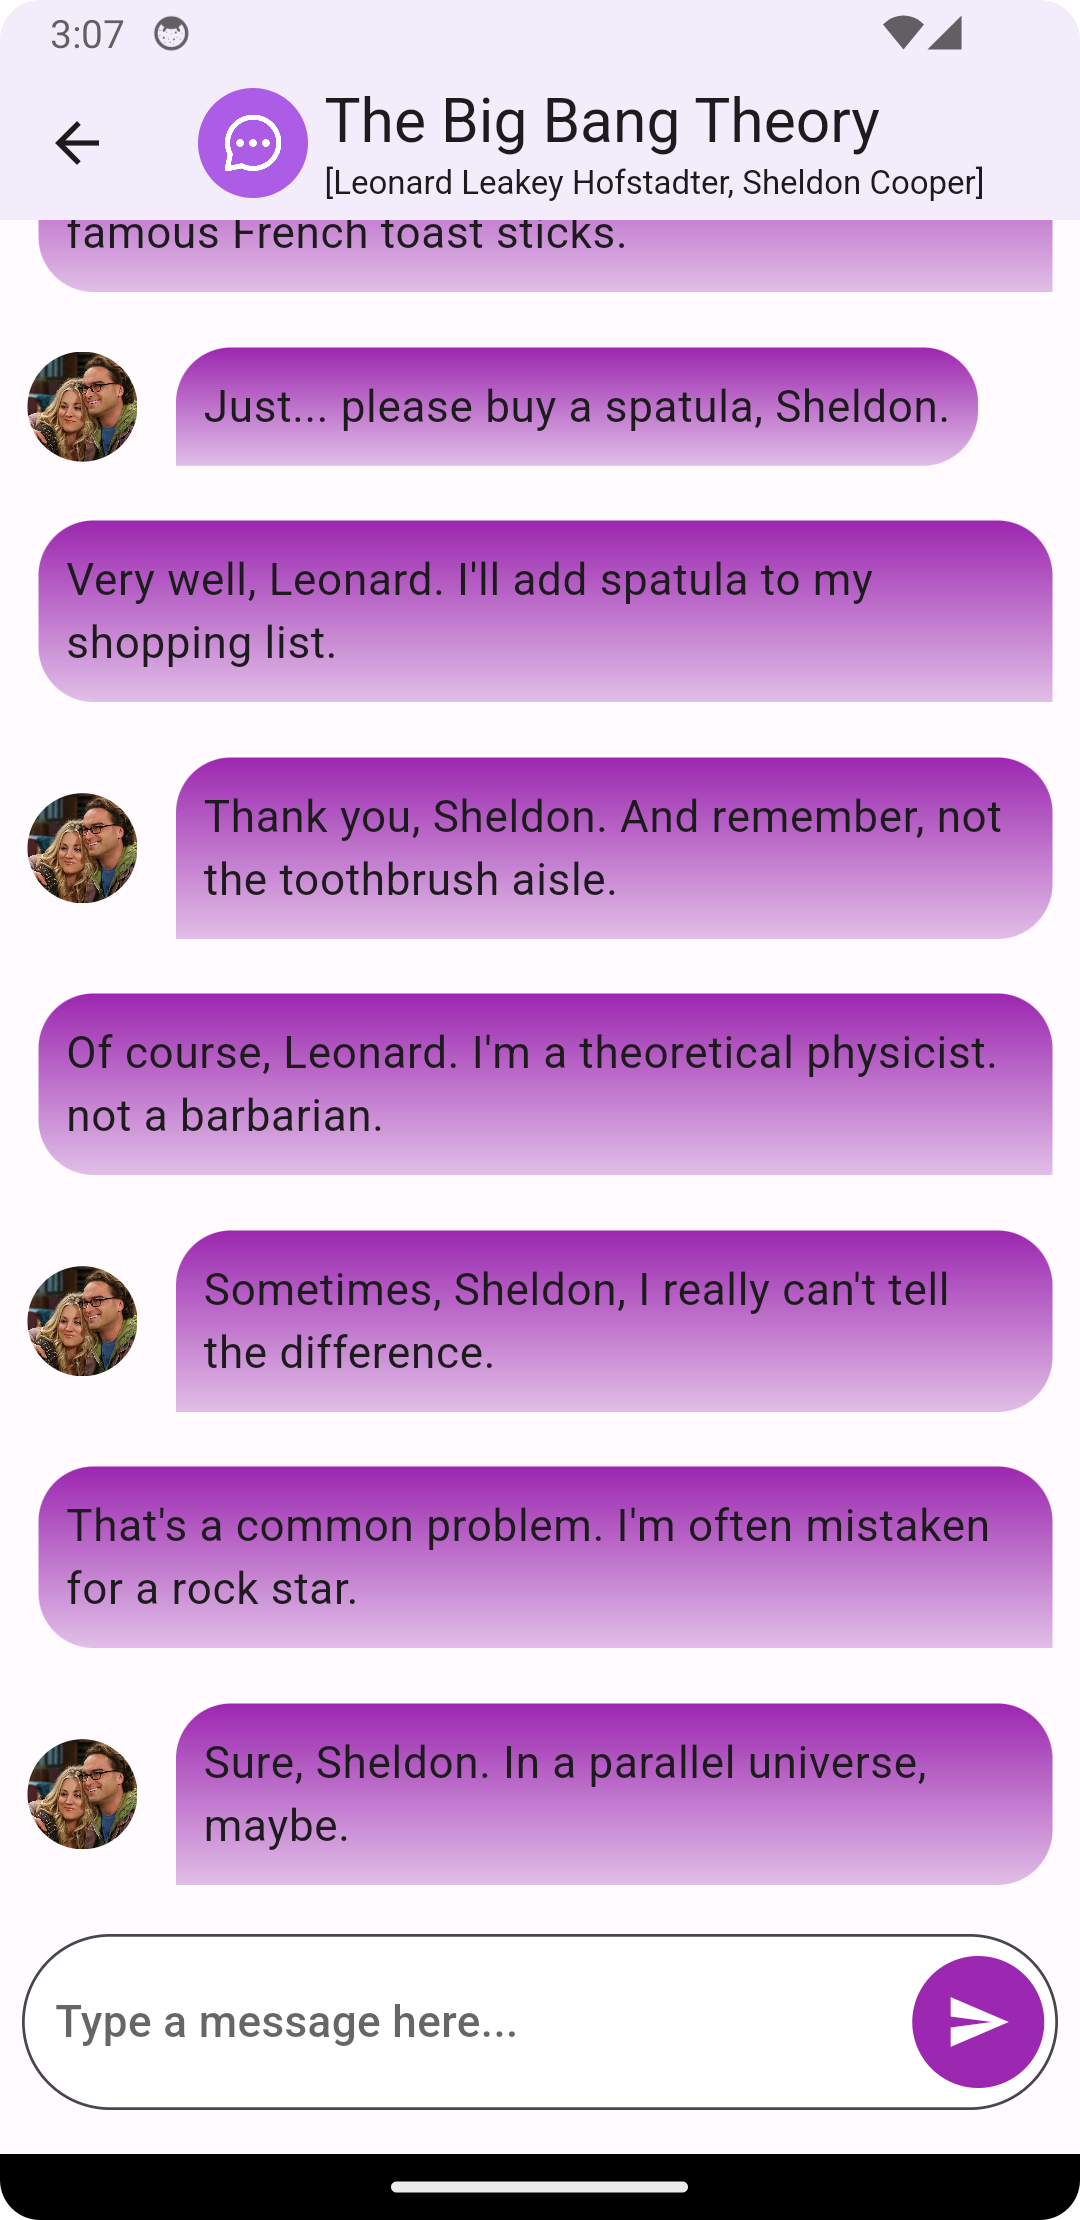
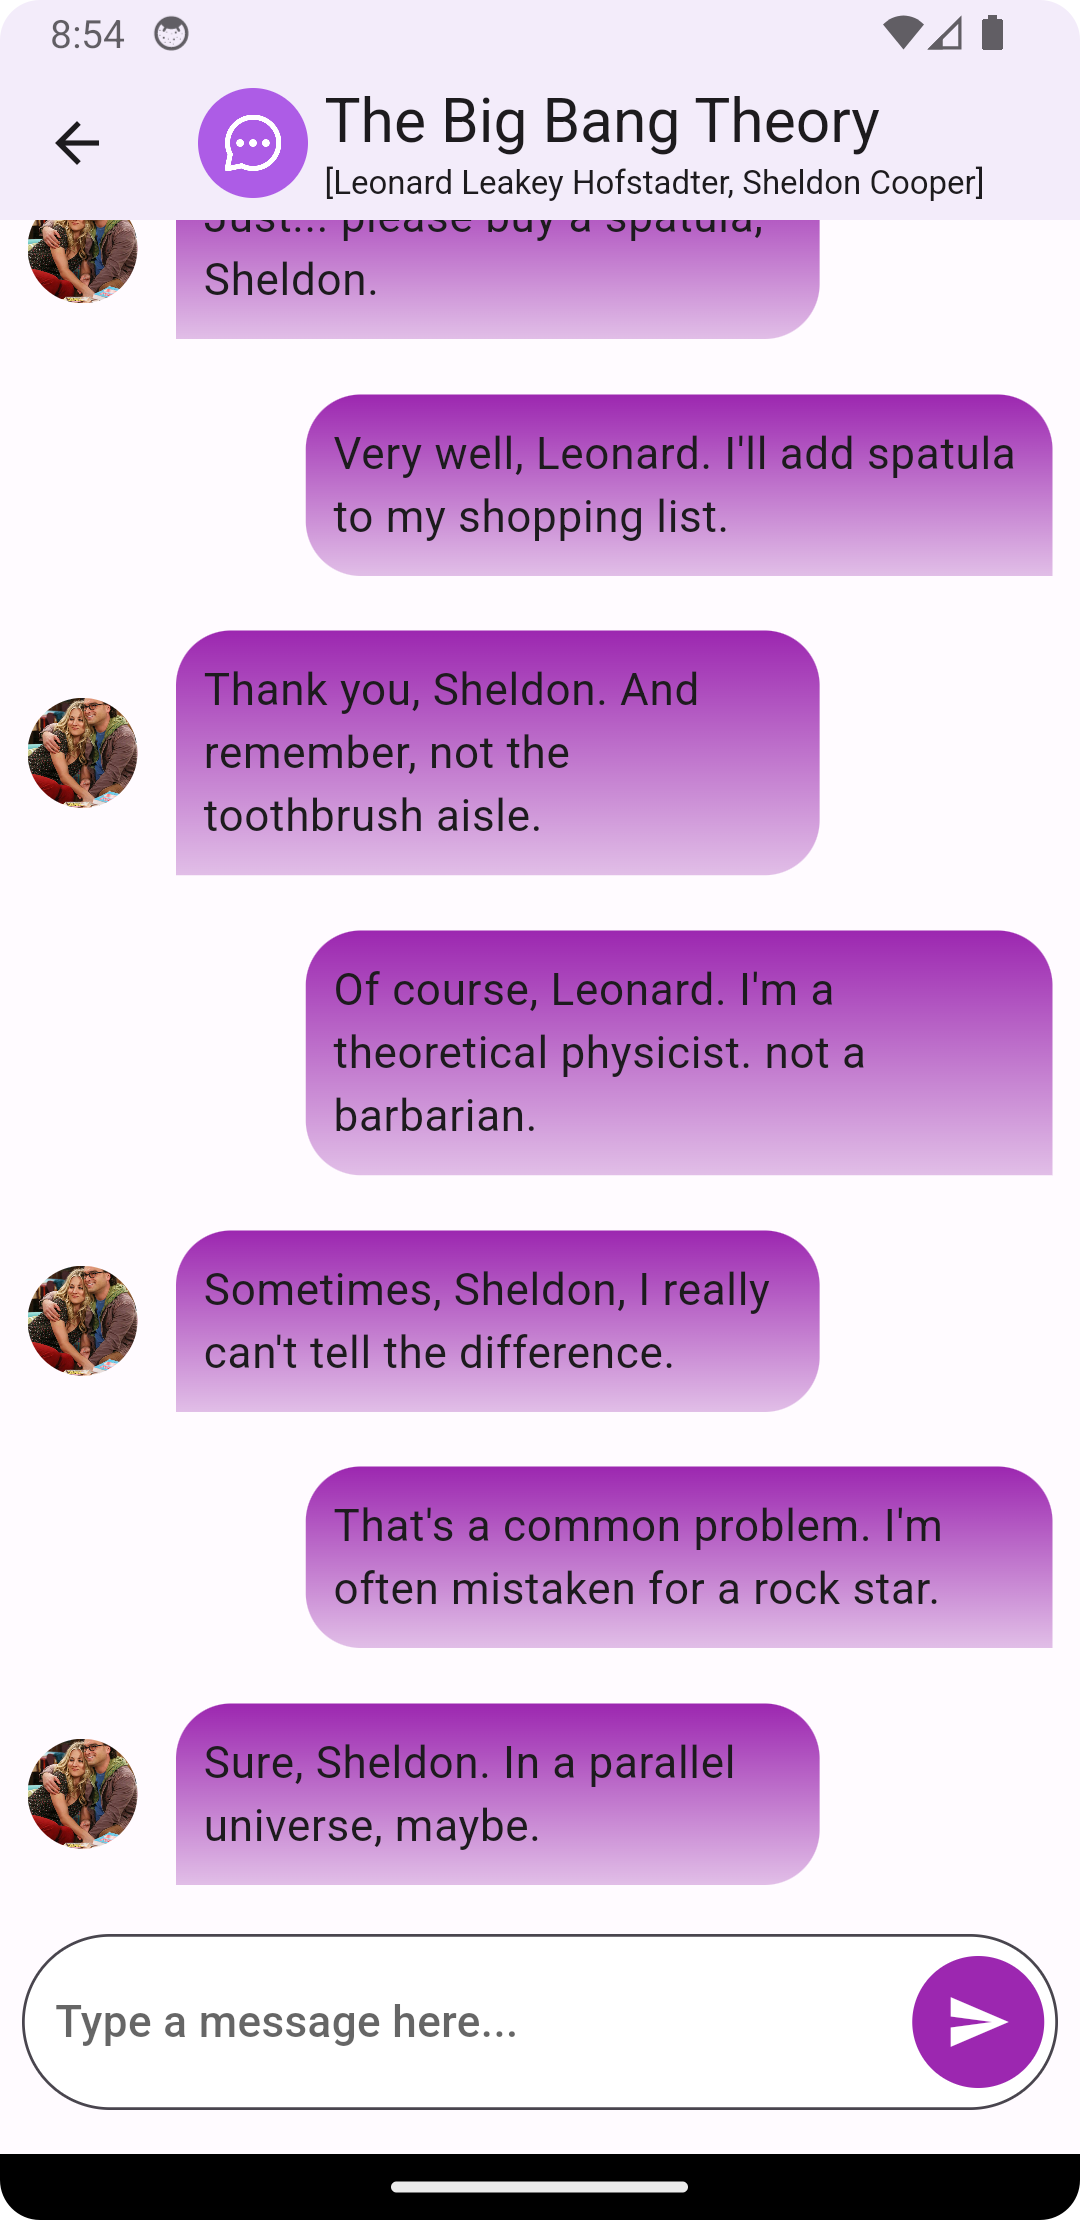
Chat bubble design and screenshots updated

diff --git a/lib/group_channel_custom_ui_page.dart b/lib/group_channel_custom_ui_page.dart
@@ -175,6 +175,10 @@ class _GroupChannelCustomUIPageState extends State<GroupChannelCustomUIPage> {
             ? MainAxisAlignment.end
             : MainAxisAlignment.start,
         children: <Widget>[
+          if (chatMessage.isFromCurrentUser)
+            Expanded(
+              flex: 2,
+                child: Container()),
           if (!chatMessage.isFromCurrentUser)
             Container(
               margin: const EdgeInsets.only(left: 10),
@@ -195,6 +199,7 @@ class _GroupChannelCustomUIPageState extends State<GroupChannelCustomUIPage> {
             width: 4,
           ),
           Flexible(
+            flex: 6,
             child: Container(
               margin: const EdgeInsets.all(10.0),
               decoration: BoxDecoration(
@@ -223,6 +228,10 @@ class _GroupChannelCustomUIPageState extends State<GroupChannelCustomUIPage> {
               ),
             ),
           ),
+          if (!chatMessage.isFromCurrentUser)
+            Expanded(
+                flex: 2,
+                child: Container())
         ],
       ),
     );
